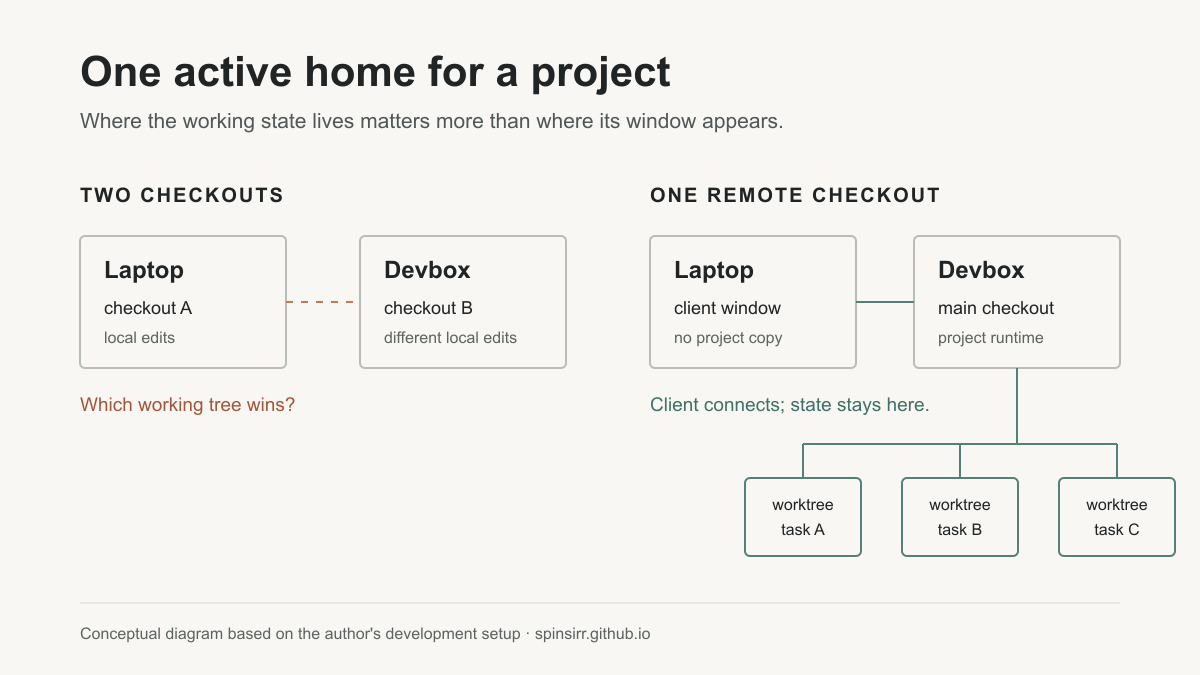
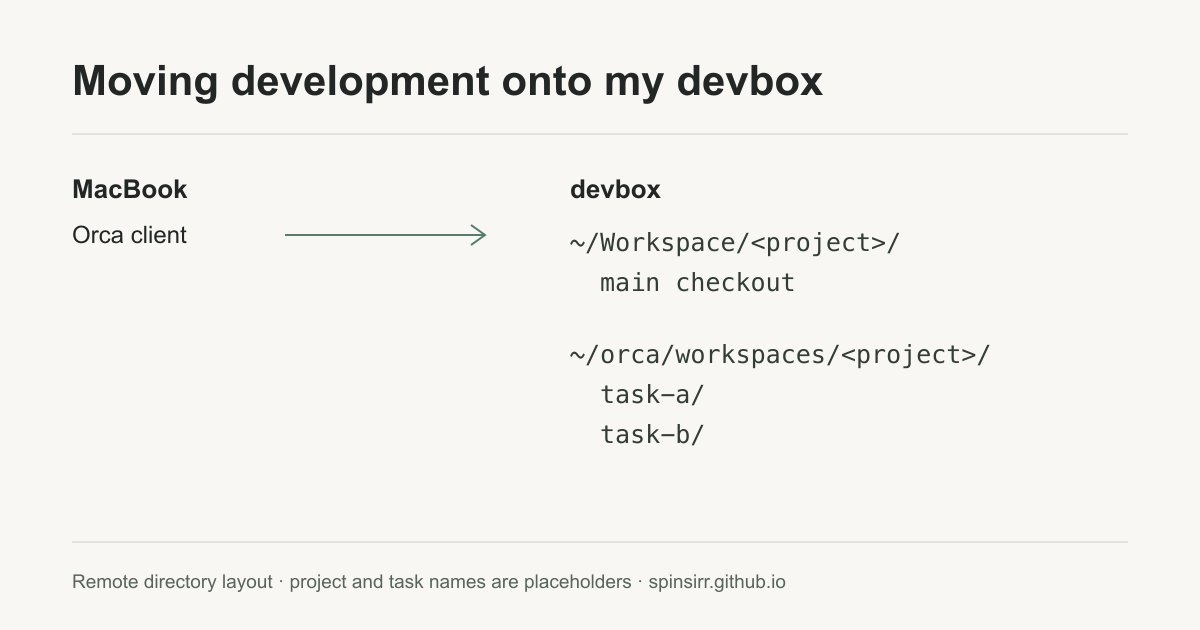
Rewrite devbox article around the actual migration

diff --git a/src/content/blog/making-a-devbox-my-development-machine.md b/src/content/blog/making-a-devbox-my-development-machine.md
@@ -1,6 +1,6 @@
 ---
-title: 'Making a devbox my development machine'
-description: 'What changed when I moved the repository, worktrees, terminals, and agent sessions onto one remote machine.'
+title: 'Moving development onto my devbox'
+description: 'The migration took two attempts. Keeping a working copy on each machine was where I went wrong.'
 pubDate: 'Oct 12 2026'
 kind: field-note
 tags: ['Linux', 'Developer tools', 'Git', 'Infrastructure']
@@ -9,44 +9,46 @@ draft: false
 ogImage: '/blog/devbox-development/checkout-topology.png'
 ---
 
-I first treated my devbox as a place to run things. The code stayed on my everyday laptop, and I sent work to the remote machine when I needed more time or a process that would survive closing the lid. That arrangement worked for a small test. It became awkward when I started developing a real project on both machines.
+I had an unused laptop and wanted somewhere for coding agents to keep running after I closed my MacBook. I installed Linux on it, called it `devbox`, and connected over SSH. Getting a shell was straightforward. Deciding where to keep the code took longer.
 
-The decisive change was simpler than another sync script: I chose one machine to own each project. For a project on the devbox, the main checkout, its worktrees, dependencies, terminals, and running agents all live there. My laptop is the interface.
+At first, I kept developing on the Mac and treated the devbox as a second place to run the project. I added an rsync wrapper to copy files over. Then I had a checkout on each machine, on different branches, with uncommitted changes in both.
 
-<figure class="post-sketch">
-  <img src="/blog/devbox-development/checkout-topology-article.svg" width="800" height="850" loading="lazy" alt="Two divergent checkouts on a laptop and devbox give way to one devbox checkout with task worktrees, reached from a laptop client." />
-  <figcaption>One project has one active home. The laptop connects to the devbox; Git worktrees branch from the checkout on that same machine. This is a conceptual map of my development workflow.</figcaption>
+I was also forwarding services onto different local ports so the two development stacks could coexist. That made the remote app accessible, but every change still came with a question: which copy was I editing?
+
+## Moving it twice
+
+I moved the project to the devbox, changed my mind and went back to using the Mac copy, then moved it again. The final decision was to do the development directly on the devbox through Orca. I removed the Mac checkout and the sync wrapper.
+
+The project now has its main checkout and task worktrees on the same machine. Other projects still live on my Mac. I choose where each project lives rather than maintaining a matching copy on both.
+
+<figure class="devbox-paths">
+  <div class="devbox-paths-client"><strong>MacBook</strong><span>Orca client</span></div>
+  <div class="devbox-paths-host"><strong>devbox</strong><pre>~/Workspace/&lt;project&gt;/
+    main checkout
+
+~/orca/workspaces/&lt;project&gt;/
+    task-a/
+    task-b/</pre></div>
+  <figcaption>The directory layout on the remote machine. Project and task names are placeholders.</figcaption>
 </figure>
 
-## The duplicate checkout was the problem
+<style>
+.devbox-paths { margin: 2rem 0; color: var(--fg); }
+.devbox-paths-client, .devbox-paths-host { border-top: 1px solid var(--line); padding: 1rem 0; }
+.devbox-paths strong { display: block; margin-bottom: .5rem; }
+.devbox-paths-client span, .devbox-paths figcaption { color: var(--fg-2); }
+.devbox-paths pre { margin: 0; padding: .5rem 0; background: transparent; border: 0; font-size: .9rem; white-space: pre-wrap; overflow-wrap: anywhere; }
+.devbox-paths figcaption { border-top: 1px solid var(--line); padding-top: 1rem; font-size: .85rem; }
+</style>
 
-I briefly kept a copy of the same project on each machine. Both copies accumulated local changes. A sync command could move files, but it could not decide which uncommitted edits were authoritative, which branch a task belonged to, or which local service matched the code I was looking at. Port forwarding made the two environments feel closer while leaving those questions open.
+## Getting the tools onto the right machine
 
-I stopped treating the devbox as a mirror. The project moved there, and the laptop copy was removed after its changes were accounted for. This is a project-by-project decision: a different repository can still live on the laptop. What matters is that a single repository does not have two competing working homes.
+[Orca's remote server](https://github.com/stablyai/orca/blob/main/docs/site/content/docs/remote-servers.mdx) runs the terminals and agents on the devbox. The Mac app connects to it. I can close the client and come back to the remote session later.
 
-Git remains the record for commits. It does not automatically preserve an uncommitted worktree, a running development server, or a local database. Those need their own handling when moving a project. I checked the repository state and runtime on the destination before retiring the other copy.
+Moving the repository did not move the rest of the environment. The remote machine needed its own runtime, dependencies, Git access, and CLI logins. For the first project, cloning over HTTPS failed because the remote shell had no credential helper configured. Cloning over SSH worked with the key already on that machine.
 
-## Put the whole working session beside the code
+Browser logins were another job. A CLI running remotely could ask to open a URL, but the machine had no desktop browser handler. Fixing that led to the `xdg-open` problem described in [A headless devbox still needs a browser](/blog/a-headless-devbox-still-needs-a-browser/).
 
-I use [Orca's remote-server model](https://github.com/stablyai/orca/blob/main/docs/site/content/docs/remote-servers.mdx) to open the devbox from my laptop. The server owns the project, terminal, browser runtime, and agent processes. The client displays and controls them. A worktree created for a separate task is another directory on the devbox, not a new checkout on my laptop.
+The setup I use now has fewer moving parts than the one I started with: Orca connects to the devbox, the project runs there, and I open its remote worktree to continue. There is no copy step before running a command and no sync step when I finish.
 
-That changes what “disconnect” means. Closing the client no longer means closing the terminal that runs the task. The remote process can keep working, and I can return to its existing workspace. I still check the process and its output after reconnecting; a surviving session is not proof that the task succeeded.
-
-The same distinction matters for previews and sign-in flows. A browser window shown on the laptop may be backed by a browser process on the devbox. `localhost` belongs to whichever machine runs that process. I wrote about the URL-handler failure this exposed in [A headless devbox still needs a browser](/blog/a-headless-devbox-still-needs-a-browser/).
-
-## The daily loop
-
-I start from the remote project's main checkout, create a worktree for focused work, run the project's checks there, and inspect its preview. When I return later, I reopen the same workspace and read the actual state of the branch, process, and tests before deciding what is finished.
-
-<figure class="post-flow">
-  <ol aria-label="A development loop with the repository on the devbox">
-    <li><strong>Open the remote project</strong><span>The devbox owns the checkout and its dependencies.</span></li>
-    <li><strong>Work in a task worktree</strong><span>Terminal, agent, and preview run beside that code.</span></li>
-    <li><strong>Return and verify</strong><span>Read the branch, output, and checks after reconnecting.</span></li>
-  </ol>
-  <figcaption>The client can come and go; the project's working state stays on one machine.</figcaption>
-</figure>
-
-This setup also makes the boundary less forgiving. Installing a CLI on my laptop does not install it on the devbox. Logging into a service locally does not authenticate the remote process. A remote agent has the devbox's permissions, so I account for its credentials and network access as part of that machine's setup rather than imagining it is an isolated sandbox.
-
-The earlier [idle-laptop walkthrough](/blog/turning-an-idle-laptop-into-a-devbox/) covers SSH, power settings, reconnecting, and a first preview. The useful next step for me was deciding where the work truly lives. Once that was explicit, the devbox stopped being an extra place to run code and became the development machine for the projects assigned to it.
+For the Linux, SSH, and power configuration, I kept the commands in [How to turn an idle laptop into a Linux devbox](/blog/turning-an-idle-laptop-into-a-devbox/).
